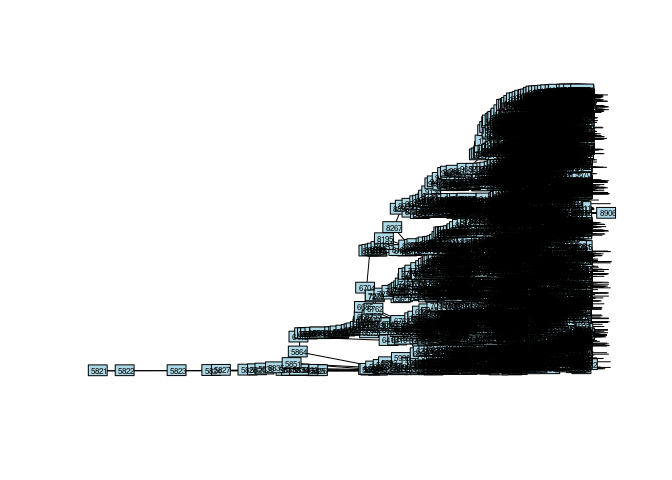
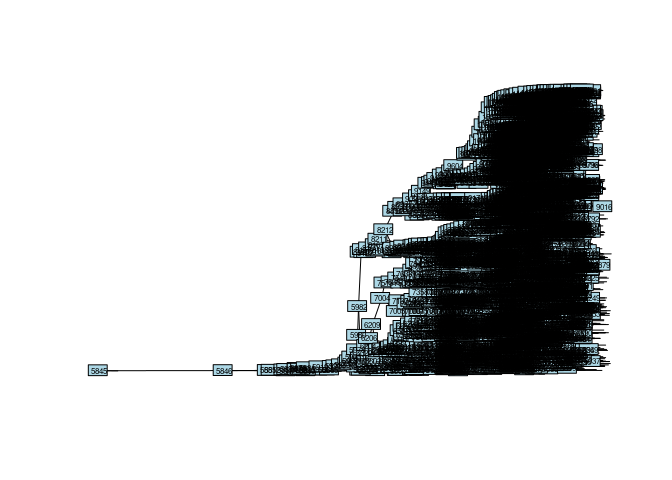
updated dataset 2021-06-21 Skipped tree = multi2di(tree)

diff --git a/UK_results.md b/UK_results.md
@@ -1,6 +1,6 @@
 Results - B.1.1.7, “Alpha variant”
 ================
-14/06/2021
+21/06/2021
 
 Phylogeographic mapping
 
@@ -27,11 +27,11 @@ lineage and TMRCA denotes the age of the lineage.
 
 ##### Table 1. Estimated number of infections in Norway resulting from import and local transmission based on the phylogeographic analyses in Figure 1.
 
-|                    |      2.5% |       50% |     97.5% |
-|:-------------------|----------:|----------:|----------:|
-| Import             |  293.4500 |  298.5000 |  305.8750 |
-| Local transmission | 3513.1250 | 3520.5000 | 3525.5500 |
-| Import / Total     |    0.0768 |    0.0782 |    0.0801 |
+|                    |      2.5% |      50% |     97.5% |
+|:-------------------|----------:|---------:|----------:|
+| Import             |  251.9000 |  261.500 |  267.8750 |
+| Local transmission | 3636.1250 | 3642.500 | 3652.1000 |
+| Import / Total     |    0.0645 |    0.067 |    0.0686 |
 
 Next, we estimate the fraction of introductions relative to local
 transmission over time. In these and subsequent analyses it is important
